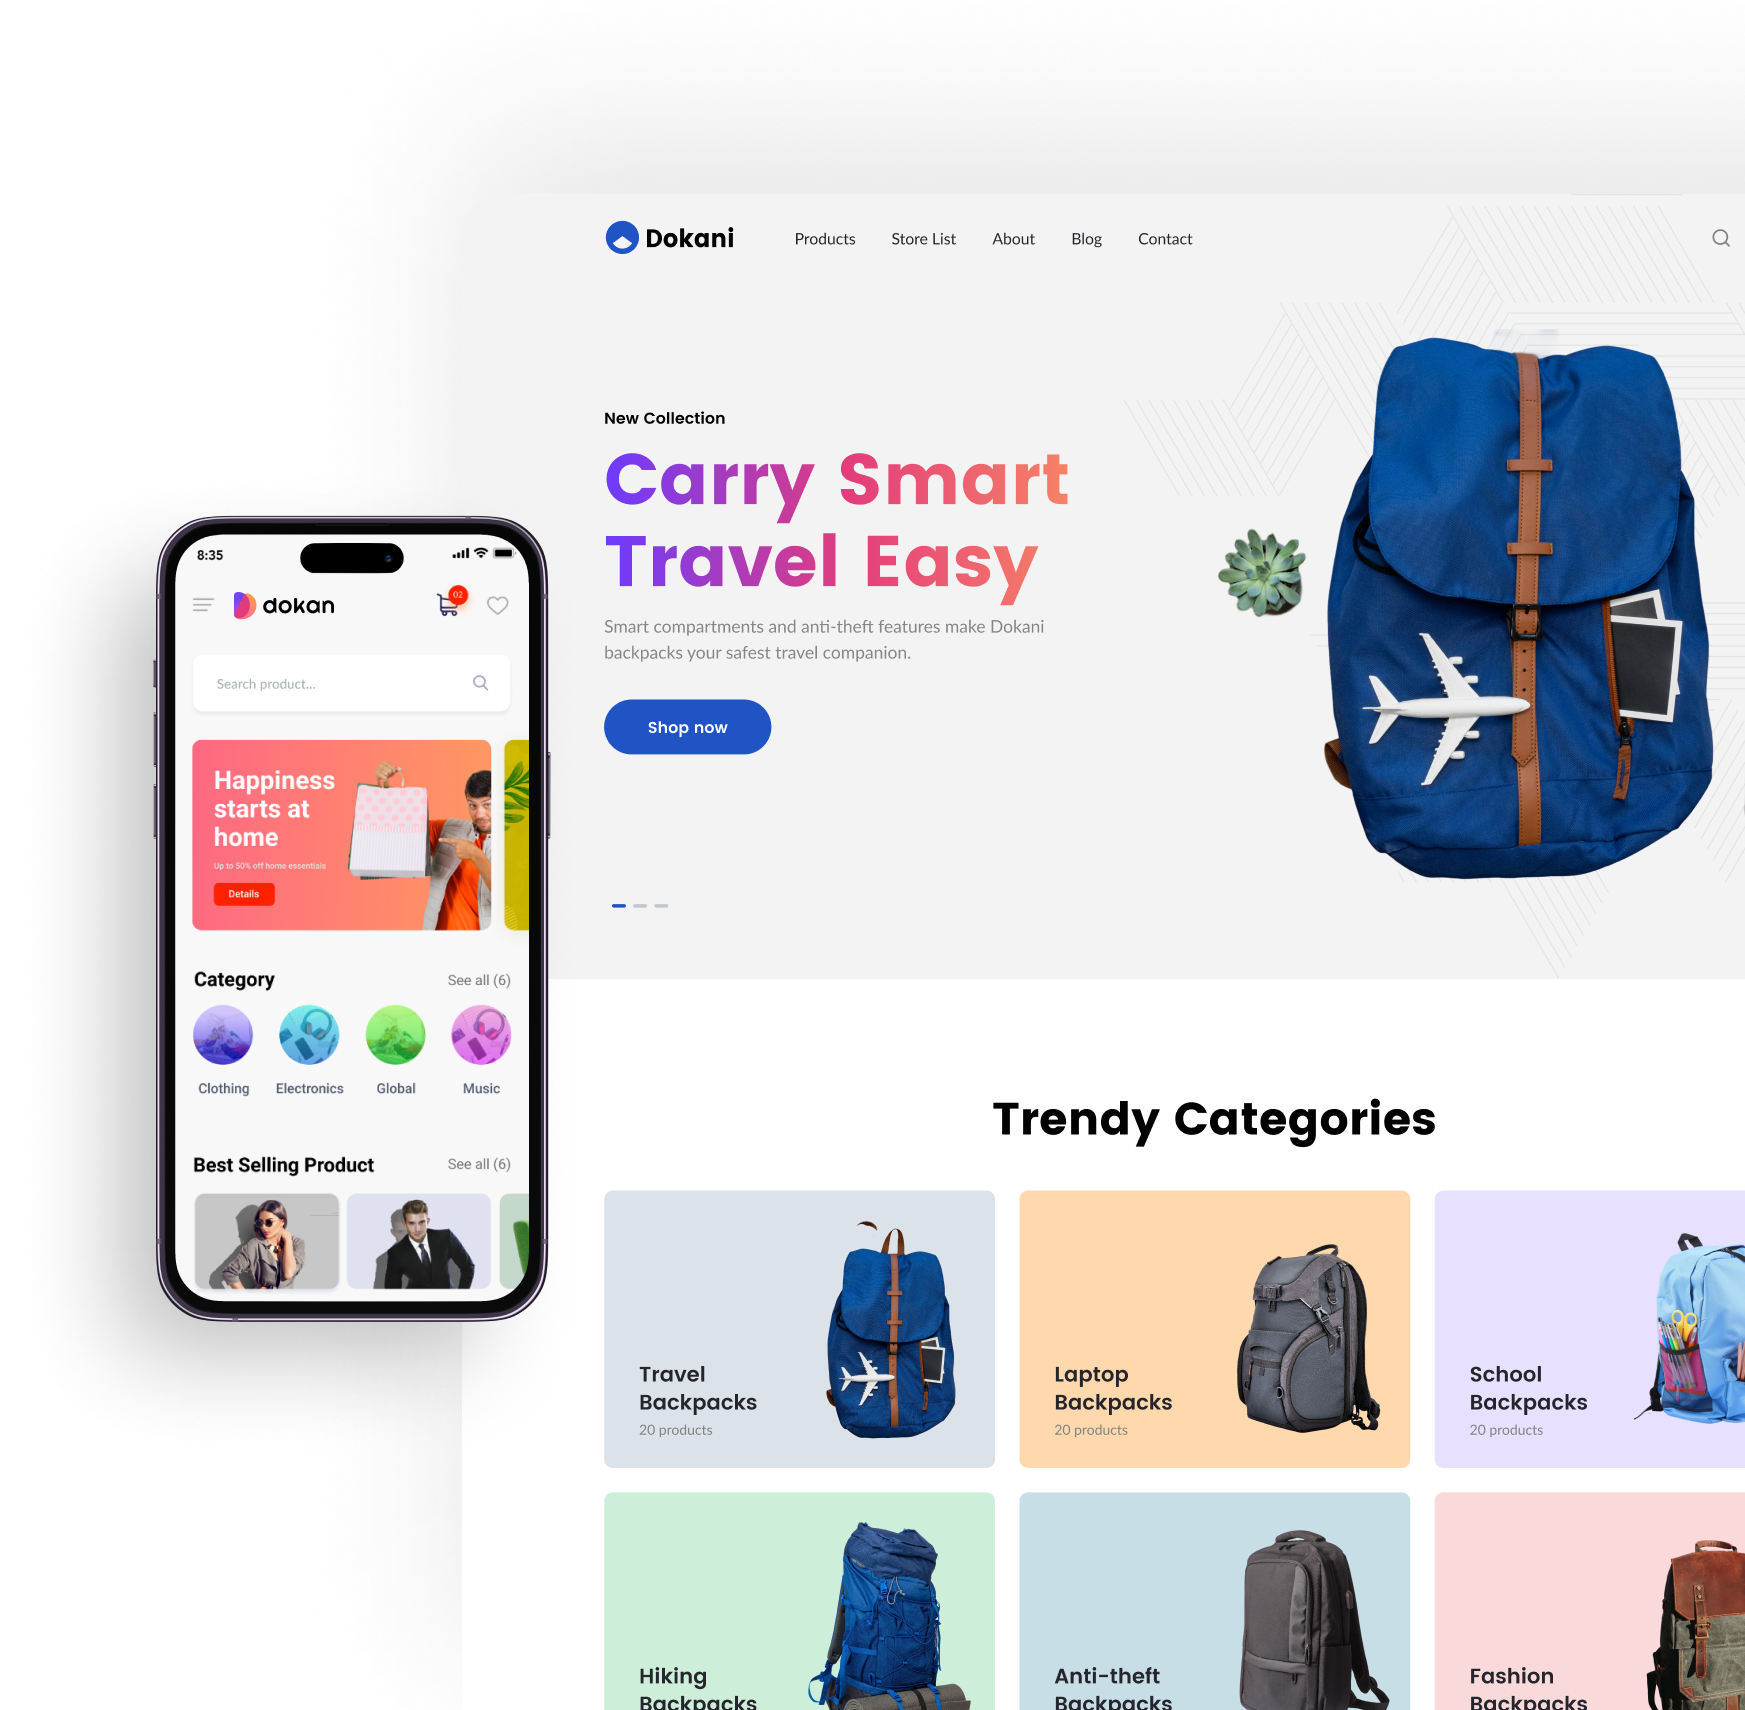
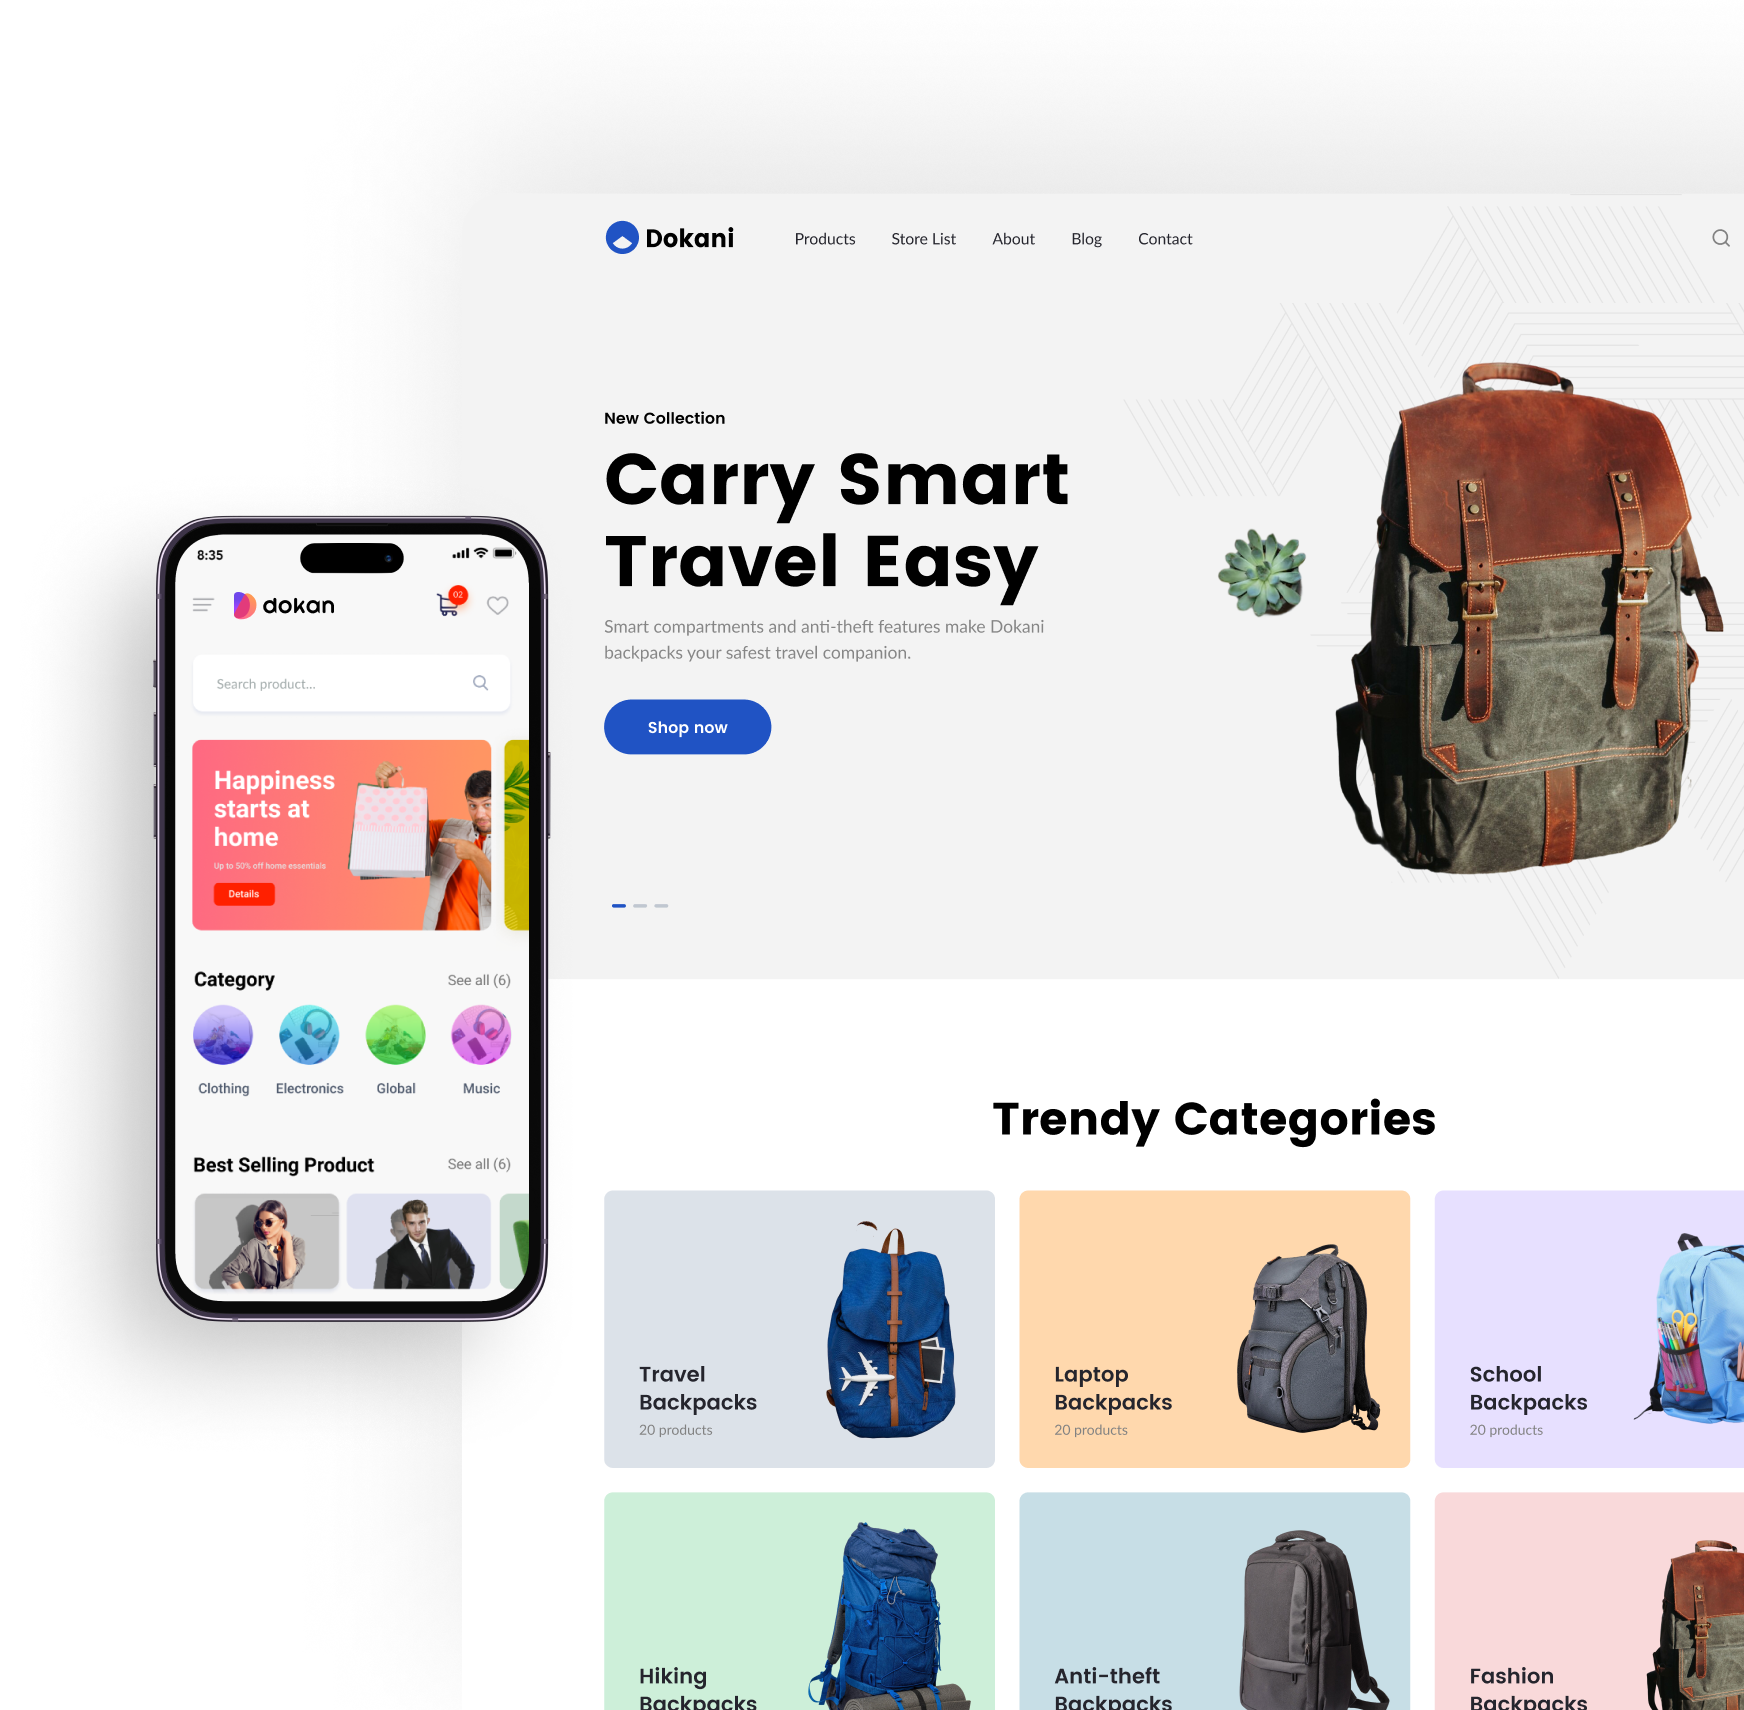
Hero: new main image (Dokani storefront with the leather backpack)
Picks up the updated Media/hero main image.png (1744x1710), busts the cache
with ?v=2, and moves placeHeroArt's aspect ratio from 1710/1745 to 1710/1744
to match. The composition is unchanged, so the storefront-to-headline
alignment holds.

diff --git a/index.html b/index.html
@@ -1466,7 +1466,7 @@
     </div>
 
     <!-- Art (Figma: hero main image) -->
-    <img class="hero-art" src="Media/hero%20main%20image.png" alt="Dokani storefront and the Dokan mobile app" />
+    <img class="hero-art" src="Media/hero%20main%20image.png?v=2" alt="Dokani storefront and the Dokan mobile app" />
   </div>
 </header>
 
@@ -2789,7 +2789,7 @@
     var h1   = document.querySelector('.hero-h1');
     var art  = document.querySelector('.hero-art');
     if (!card || !copy || !h1 || !art) return;
-    var RATIO = 1710 / 1745, PHONE_X = 0.09, SITE_Y = 0.113, GAP = 40, MIN_W = 440;
+    var RATIO = 1710 / 1744, PHONE_X = 0.09, SITE_Y = 0.113, GAP = 40, MIN_W = 440;
     function place() {
       if (window.innerWidth < 1024) {            /* stacked layout: CSS owns it */
         art.style.left = art.style.top = art.style.width = art.style.right = art.style.bottom = '';
